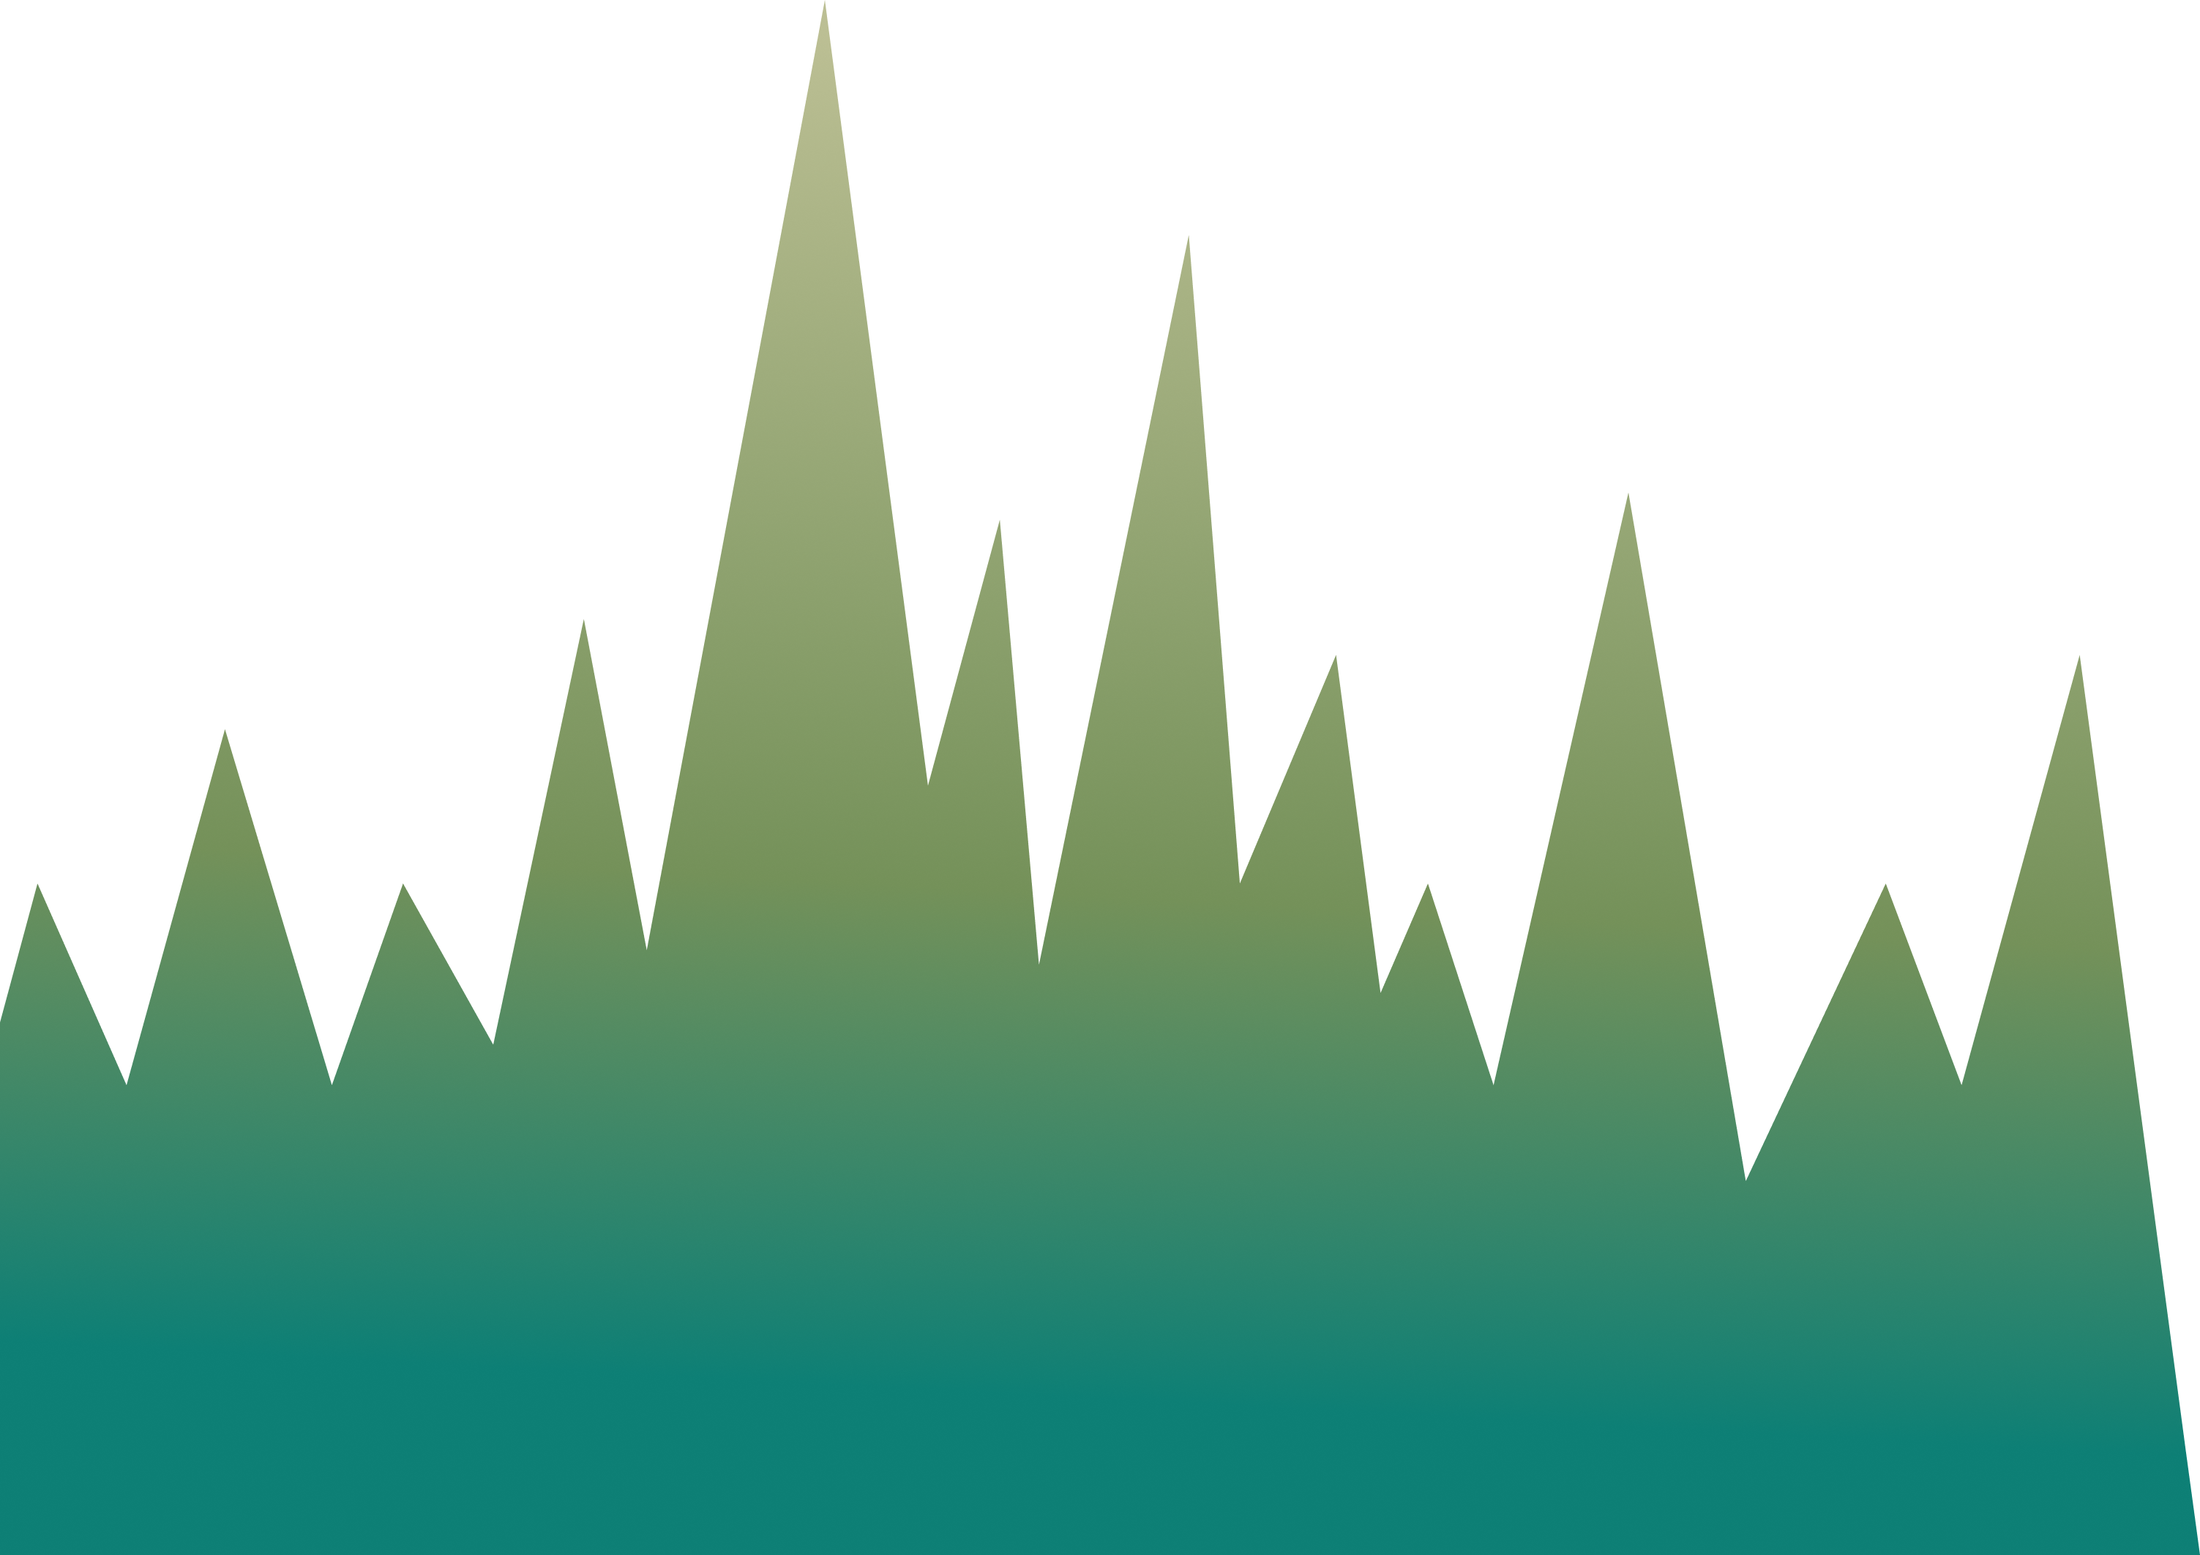
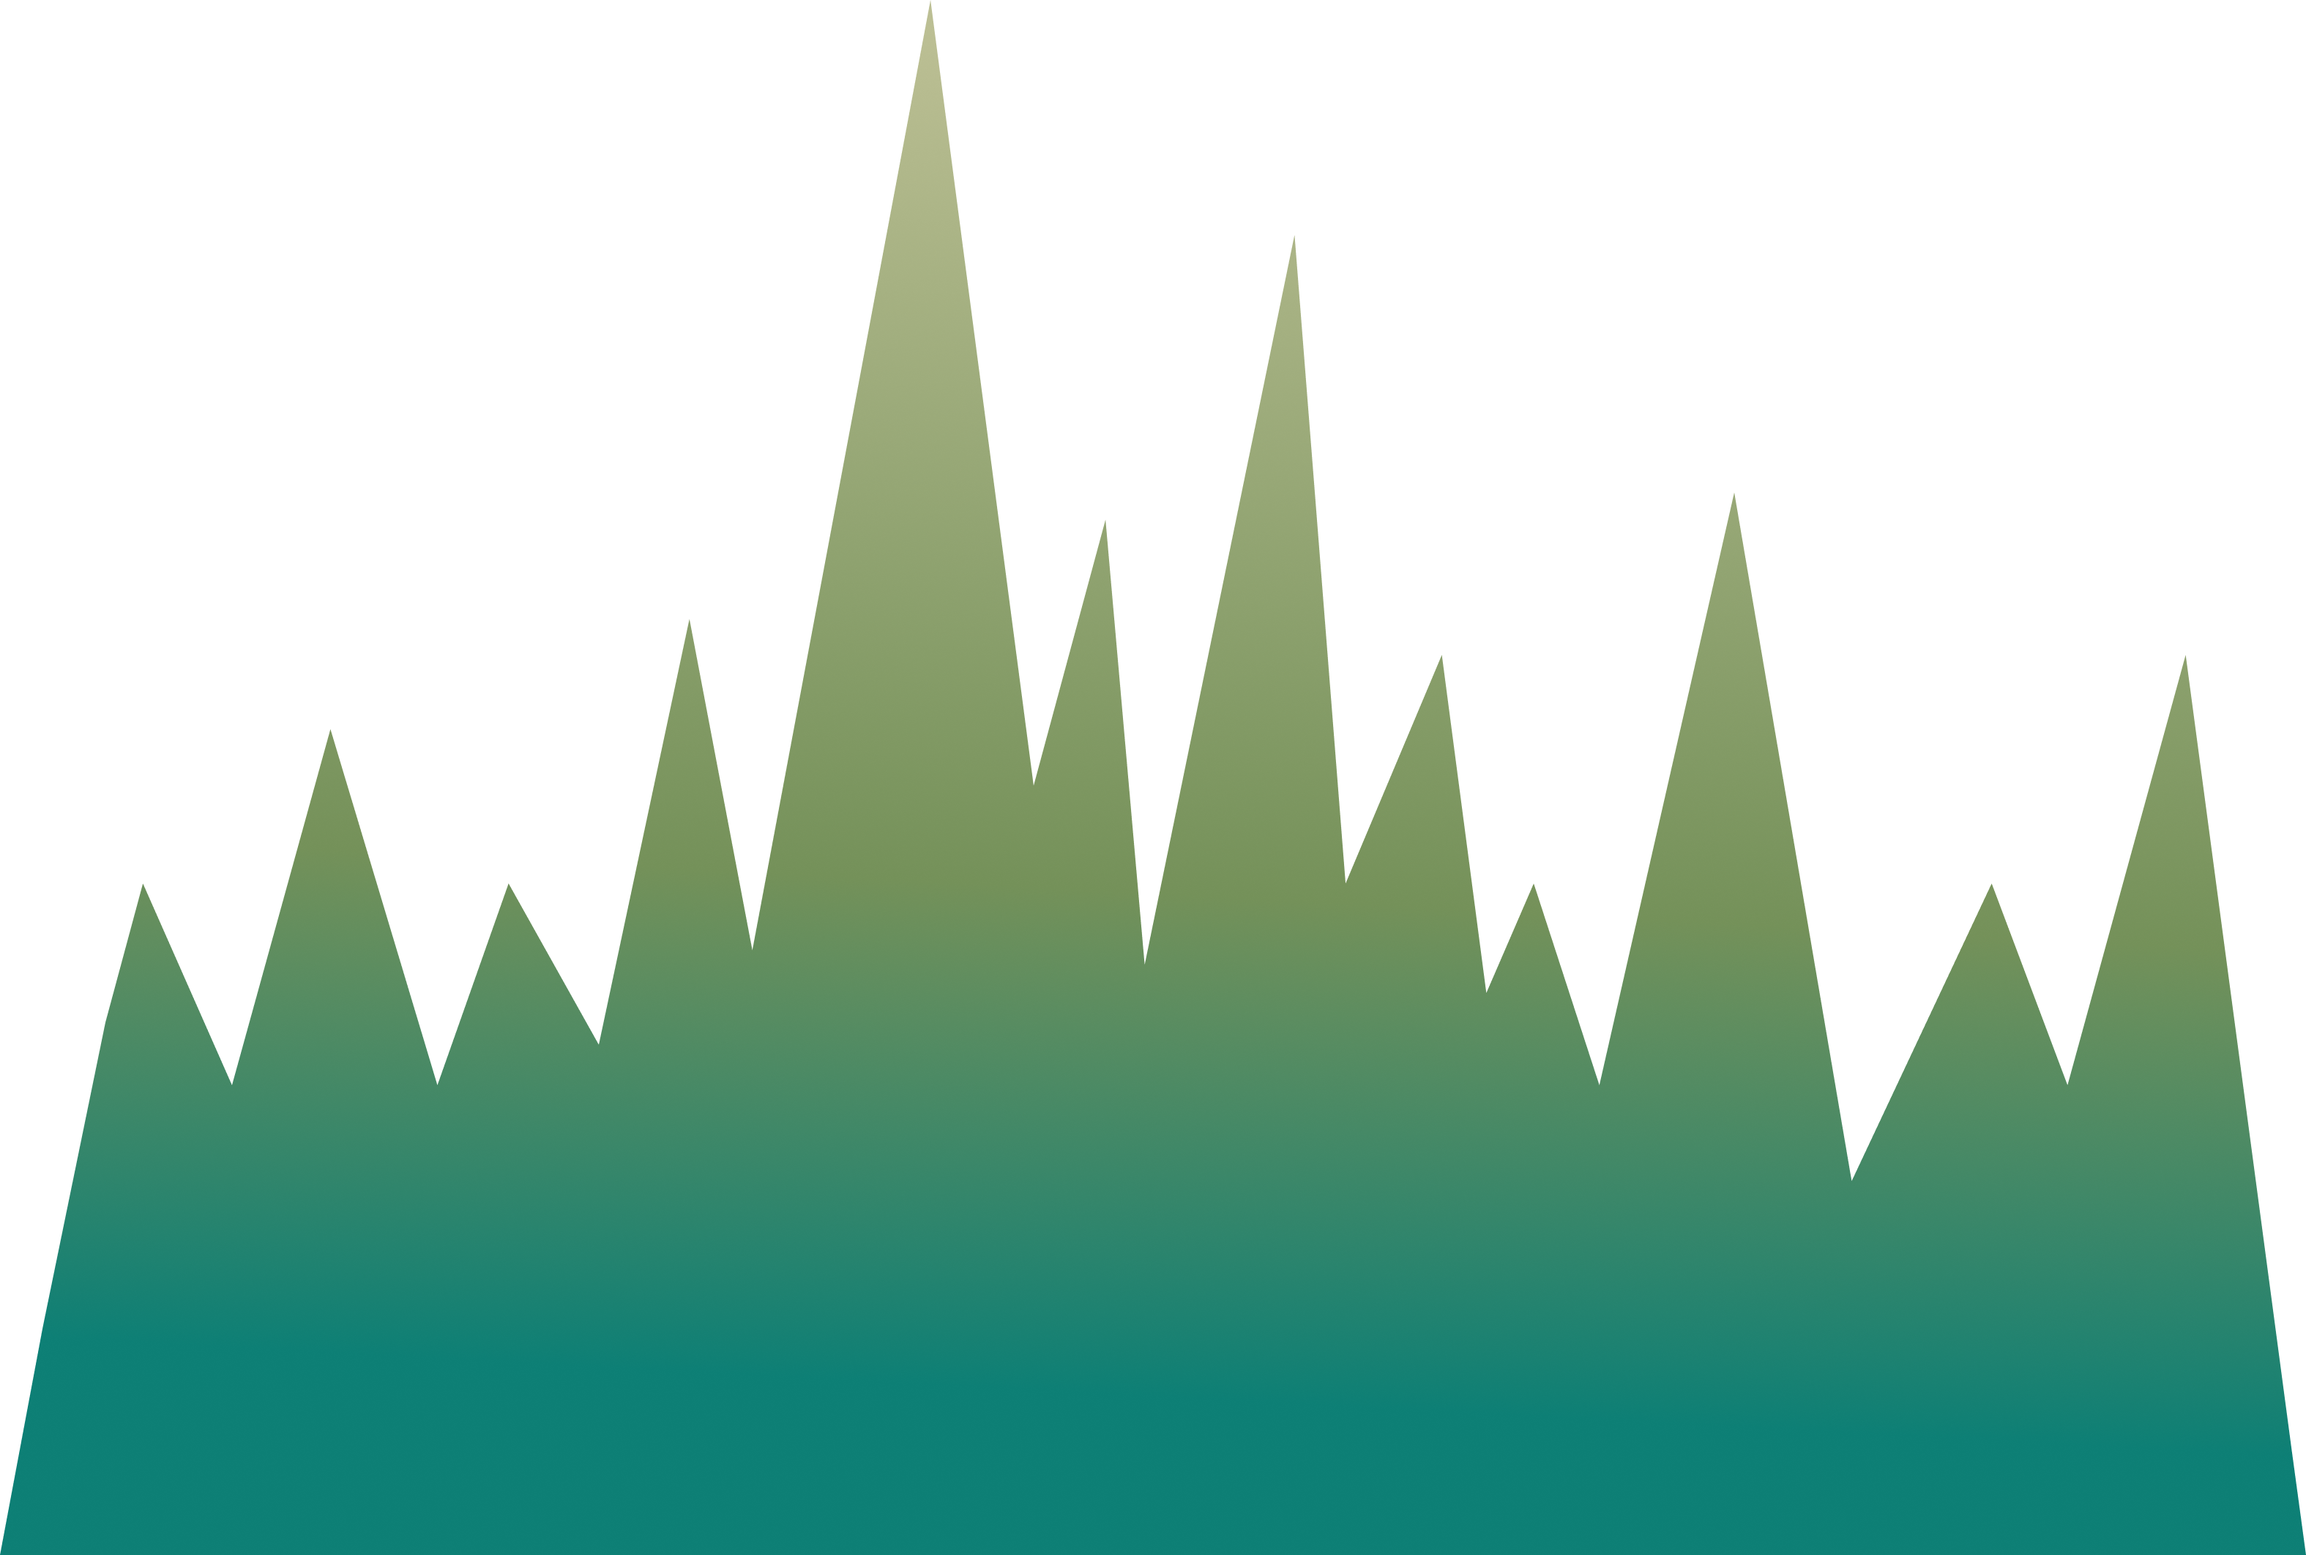
added sponsor section (#16)
* added sponsor section

* performance improvement

* asset path, button as anchor, disable cursor event

* pipeline fix plsplspls

* plsplspls fixed path alias

* this is my last resort

Changed region(s): [[0.0, 0.0, 0.8353, 0.9633], [0.8353, 0.5282, 0.9281, 0.6836], [0.9281, 0.435, 0.9591, 0.5282]]

diff --git a/apps/landing/src/app/_sponsors/index.tsx b/apps/landing/src/app/_sponsors/index.tsx
@@ -1,17 +1,134 @@
-import { Typography } from '@hackthe6ix/ui';
+import Candle from '@/assets/sponsor_candle.png';
+import Grass from '@/assets/sponsor_grass.png';
+import Hills from '@/assets/sponsor_hill.png';
+import { Button, Typography } from '@hackthe6ix/ui';
+import Image from 'next/image';
 
 import Section from '../../components/Section';
+import { featureFlags } from '../../feature-flags';
+import LogoGrid from './LogoGrid';
 
 export default function Sponsors() {
+  const showSponsor = featureFlags.showSponsor;
   return (
     <Section
       id="sponsors"
-      backgroundColor="linear-gradient(to bottom, #12102F, #423994, #355190, #0D7F75)"
+      backgroundColor="linear-gradient(to bottom, #12102F, #12102F, #423994, #355190, #0D7F75)"
+      className="items-center overflow-hidden"
     >
-      <div>
-        <Typography textSize="heading-sm" textColor="text-neutral-50">
-          SPONSORS
+      <div className="flex flex-col max-w-[80%] gap-y-7 items-center z-30 md:max-w-[55%] md:gap-y-9">
+        <Typography
+          textSize="heading-sm"
+          textColor="text-white"
+          textWeight="bold"
+          className="text-center md:text-4xl"
+        >
+          Brewing the future of{' '}
+          <span className="text-warning-400">innovation</span>
         </Typography>
+        <div className="flex flex-col gap-y-4">
+          <Typography
+            textSize="paragraph-sm"
+            textColor="text-white"
+            textWeight="medium"
+            className="text-center md:text-lg"
+          >
+            Each year, our sponsors unite thousands of emerging developers,
+            designers, and builders, forging lasting connections with
+            connections with hackers. Special thanks to our sponsors for
+            supporting Hack the 6ix and the birth of great ideas.
+          </Typography>
+          <Typography
+            textSize="paragraph-sm"
+            textColor="text-white"
+            textWeight="medium"
+            className="text-center md:text-lg"
+          >
+            Want to help us make Hack the 6ix a reality?
+          </Typography>
+        </div>
+        <Button
+          className="w-full md:max-w-45"
+          as="a"
+          href="mailto:sponsor@hackthe6ix.com?subject=Interest in Sponsoring Hack the 6ix"
+        >
+          Become a Sponsor
+        </Button>
+      </div>
+      <div className="-mt-25 flex flex-col items-end justify-center z-0 md:-mt-75">
+        <div className="flex flex-row w-full translate-x-5 items-end justify-center md:gap-10">
+          <Image
+            src={Hills}
+            alt="Purple Hills"
+            width={700}
+            height={700}
+            draggable={false}
+            className="w-150 h-auto md:w-300"
+          />
+          <Image
+            src={Grass}
+            alt="Big Grass"
+            width={800}
+            height={800}
+            draggable={false}
+            className="w-140 h-auto -translate-x-12 md:w-300 md:translate-0 2xl:translate-x-20"
+          />
+        </div>
+        <div className="relative flex flex-col items-center">
+          <div
+            className="-mt-35 w-[1000vw] -translate-x-8 h-120 bg-radial-[at_25%_25%] from-[#584fdb] to-[#3F3E93] md:w-[280vw] md:-mt-85 lg:w-[180vw] md:translate-x-0 md:from-[#423CB5] md:to-[#3F3E93]"
+            style={{
+              clipPath: 'polygon(50% 0%, 0% 100%, 100% 100%)',
+              WebkitMaskImage:
+                'linear-gradient(to bottom, #3F3E93 80%, transparent 100%)',
+              maskImage:
+                'linear-gradient(to bottom, #3F3E93 80%, transparent 100%)',
+            }}
+          />
+          <div className="absolute flex -top-45 -translate-x-30 justify-center md:-top-90 md:left-1/3 md:translate-x-45 2xl:-top-95 2xl:translate-x-30">
+            <Image
+              src={Candle}
+              alt="cute candle"
+              width={100}
+              height={100}
+              draggable={false}
+              className="w-18 h-auto z-20 md:w-28 2xl:w-35"
+            />
+            <div className="z-10 absolute bg-[rgba(246, 189, 85, 0.34)] top-0.5 md:top-1.5 -translate-x-1.5 rounded-full w-2 md:w-3 h-3 md:h-5 2xl:h-6 animate-glow" />
+            <div className="z-10 absolute bg-[rgba(246, 189, 85, 0.34)] top-0.5 md:top-1.5 -translate-x-1.5 rounded-full w-2 md:w-3 h-3 md:h-5 2xl:h-6 animate-glow" />{' '}
+          </div>
+          <div className="-mt-95 flex flex-col items-center gap-y-4 w-full px-4 z-10 max-w-90 md:max-w-[60%] lg:max-w-[75%] md:-mt-75">
+            <Typography
+              textSize="heading-sm"
+              textColor="text-white"
+              textWeight="bold"
+              className="text-center md:text-4xl"
+            >
+              Our Sponsors
+            </Typography>
+            {showSponsor ?
+              <>
+                <Typography
+                  textSize="paragraph-lg"
+                  textColor="text-white"
+                  textWeight="medium"
+                  className="text-center md:text-base"
+                >
+                  Thank you to our sponsors for making Hack the 6ix possible!
+                </Typography>
+                <LogoGrid />
+              </>
+            : <Typography
+                textSize="paragraph-lg"
+                textColor="text-white"
+                textWeight="medium"
+                className="text-center pb-60 md:text-base"
+              >
+                Sponsors coming soon :)
+              </Typography>
+            }
+          </div>
+        </div>
       </div>
     </Section>
   );

diff --git a/apps/landing/src/app/_sponsors/LogoGrid.tsx b/apps/landing/src/app/_sponsors/LogoGrid.tsx
@@ -1,0 +1,121 @@
+'use client';
+
+import LogoPlaceholder from '@/assets/Free-PlaceHolder-Logo.jpg';
+import Image from 'next/image';
+import Link from 'next/link';
+
+const platinumSponsors = [
+  {
+    src: LogoPlaceholder,
+    alt: 'logo',
+    href: 'https://orteil.dashnet.org/cookieclicker/',
+  },
+];
+
+const goldSponsors = [
+  {
+    src: LogoPlaceholder,
+    alt: 'logo',
+    href: 'https://orteil.dashnet.org/cookieclicker/',
+  },
+  {
+    src: LogoPlaceholder,
+    alt: 'logo',
+    href: 'https://orteil.dashnet.org/cookieclicker/',
+  },
+];
+
+const silverSponsors = [
+  {
+    src: LogoPlaceholder,
+    alt: 'logo',
+    href: 'https://orteil.dashnet.org/cookieclicker/',
+  },
+  {
+    src: LogoPlaceholder,
+    alt: 'logo',
+    href: 'https://orteil.dashnet.org/cookieclicker/',
+  },
+  {
+    src: LogoPlaceholder,
+    alt: 'logo',
+    href: 'https://orteil.dashnet.org/cookieclicker/',
+  },
+];
+const bronzeSponsors = [
+  {
+    src: LogoPlaceholder,
+    alt: 'logo',
+    href: 'https://orteil.dashnet.org/cookieclicker/',
+  },
+  {
+    src: LogoPlaceholder,
+    alt: 'logo',
+    href: 'https://orteil.dashnet.org/cookieclicker/',
+  },
+  {
+    src: LogoPlaceholder,
+    alt: 'logo',
+    href: 'https://orteil.dashnet.org/cookieclicker/',
+  },
+  {
+    src: LogoPlaceholder,
+    alt: 'logo',
+    href: 'https://orteil.dashnet.org/cookieclicker/',
+  },
+];
+
+export default function LogoGrid() {
+  return (
+    <div className="pt-8 flex flex-col gap-4 md:gap-8 w-full md:max-w-[50%] items-center">
+      <div className="grid grid-cols-1">
+        {platinumSponsors.map((sponsor, index) => (
+          <Link
+            href={sponsor.href}
+            key={`${sponsor.alt}-${index}`}
+            target="_blank"
+            rel="sponsored"
+          >
+            <Image src={sponsor.src} alt={sponsor.alt} />
+          </Link>
+        ))}
+      </div>
+      <div className="grid grid-cols-1 max-w-[85%] gap-3 md:grid-cols-2 md:gap-8 md:max-w-full">
+        {goldSponsors.map((sponsor, index) => (
+          <Link
+            href={sponsor.href}
+            key={`${sponsor.alt}-${index}`}
+            target="_blank"
+            rel="sponsored"
+          >
+            <Image src={sponsor.src} alt={sponsor.alt} />
+          </Link>
+        ))}
+      </div>
+      <div className="grid grid-cols-2 gap-3 md:grid-cols-3 md:gap-8 max-w-[85%]">
+        {silverSponsors.map((sponsor, index) => (
+          <Link
+            href={sponsor.href}
+            key={`${sponsor.alt}-${index}`}
+            target="_blank"
+            rel="sponsored"
+          >
+            <Image src={sponsor.src} alt={sponsor.alt} />
+          </Link>
+        ))}
+      </div>
+      <div className="grid grid-cols-3 gap-3 md:grid-cols-4 md:gap-8 max-w-[85%]">
+        {bronzeSponsors.map((sponsor, index) => (
+          <Link
+            href={sponsor.href}
+            key={`${sponsor.alt}-${index}`}
+            target="_blank"
+            rel="sponsored"
+          >
+            <Image src={sponsor.src} alt={sponsor.alt} />
+          </Link>
+        ))}
+      </div>
+    </div>
+  );
+}

diff --git a/apps/landing/src/app/globals.css b/apps/landing/src/app/globals.css
@@ -2,3 +2,73 @@
 @import '@hackthe6ix/ui/theme.css';
 
 @source '../../../../packages/ui/src';
+
+@theme {
+  --animate-glow: glowing 4s ease-in-out infinite alternate;
+  --animate-slide-down: slide-down 1s ease-out forwards;
+  --animate-slide-up: slide-up 1s ease-in forwards;
+  --animate-dangle: dangle 3s ease-in-out;
+}
+
+@keyframes glowing {
+  from {
+    box-shadow:
+      0 0 20px #ffd166,
+      0 0 30px #ffb703,
+      0 0 40px #fb8500,
+      0 0 80px #fb8500;
+  }
+  to {
+    box-shadow:
+      0 0 40px #fff3b0,
+      0 0 70px #ffd166,
+      0 0 90px #ff8500,
+      0 0 110px #fb8500;
+  }
+}
+
+@keyframes slide-down {
+  from {
+    transform: translateY(-50px);
+    opacity: 0;
+  }
+  to {
+    transform: translateY(0);
+    opacity: 1;
+  }
+}
+
+@keyframes slide-up {
+  from {
+    transform: translateY(0);
+    opacity: 1;
+  }
+  to {
+    transform: translateY(-50px);
+    opacity: 0;
+  }
+}
+
+@keyframes dangle {
+  0% {
+    transform: rotate(0deg);
+  }
+  15% {
+    transform: rotate(15deg);
+  }
+  35% {
+    transform: rotate(-12deg);
+  }
+  55% {
+    transform: rotate(8deg);
+  }
+  75% {
+    transform: rotate(-4deg);
+  }
+  90% {
+    transform: rotate(1deg);
+  }
+  100% {
+    transform: rotate(0deg);
+  }
+}

diff --git a/apps/landing/src/components/Section/index.tsx b/apps/landing/src/components/Section/index.tsx
@@ -16,7 +16,7 @@ export default function Section({
     <section
       id={id}
       style={{ background: backgroundColor }}
-      className={`w-full min-h-screen flex flex-col py-24 ${className}`}
+      className={`w-full min-h-screen flex flex-col py-12 ${className}`}
       {...props}
     >
       {children}

diff --git a/apps/landing/src/images.d.ts b/apps/landing/src/images.d.ts
@@ -1,0 +1,6 @@
+declare module '@/assets/*.png';
+declare module '@/assets/*.jpg';
+declare module '@/assets/*.svg';
+declare module '*.png';
+declare module '*.jpg';
+declare module '*.svg';

diff --git a/apps/landing/src/feature-flags.ts b/apps/landing/src/feature-flags.ts
@@ -1,0 +1,3 @@
+export const featureFlags = {
+  showSponsor: false,
+} as const;
